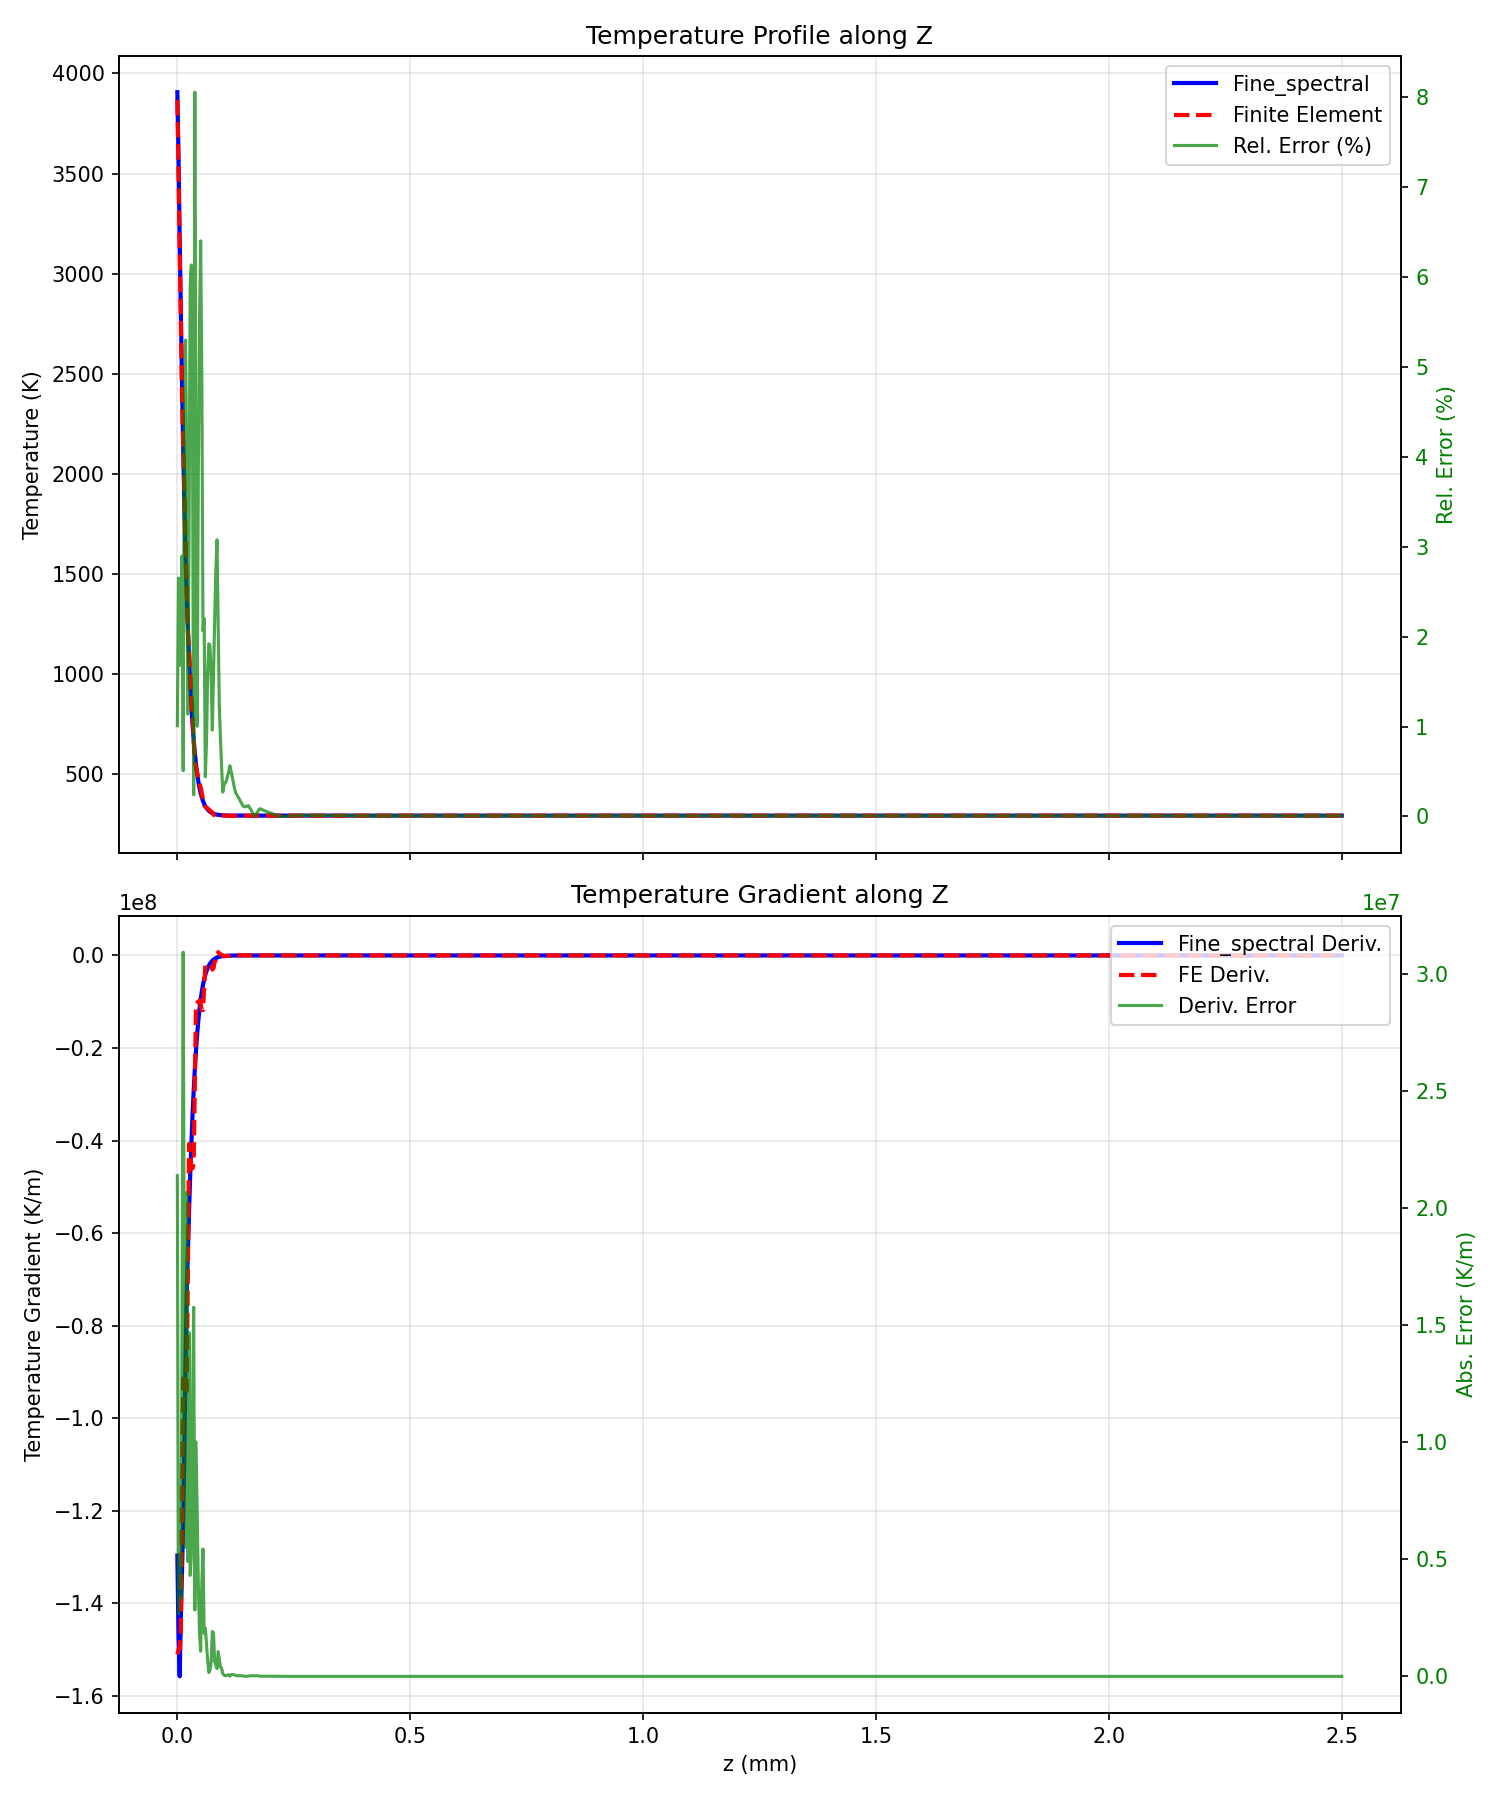
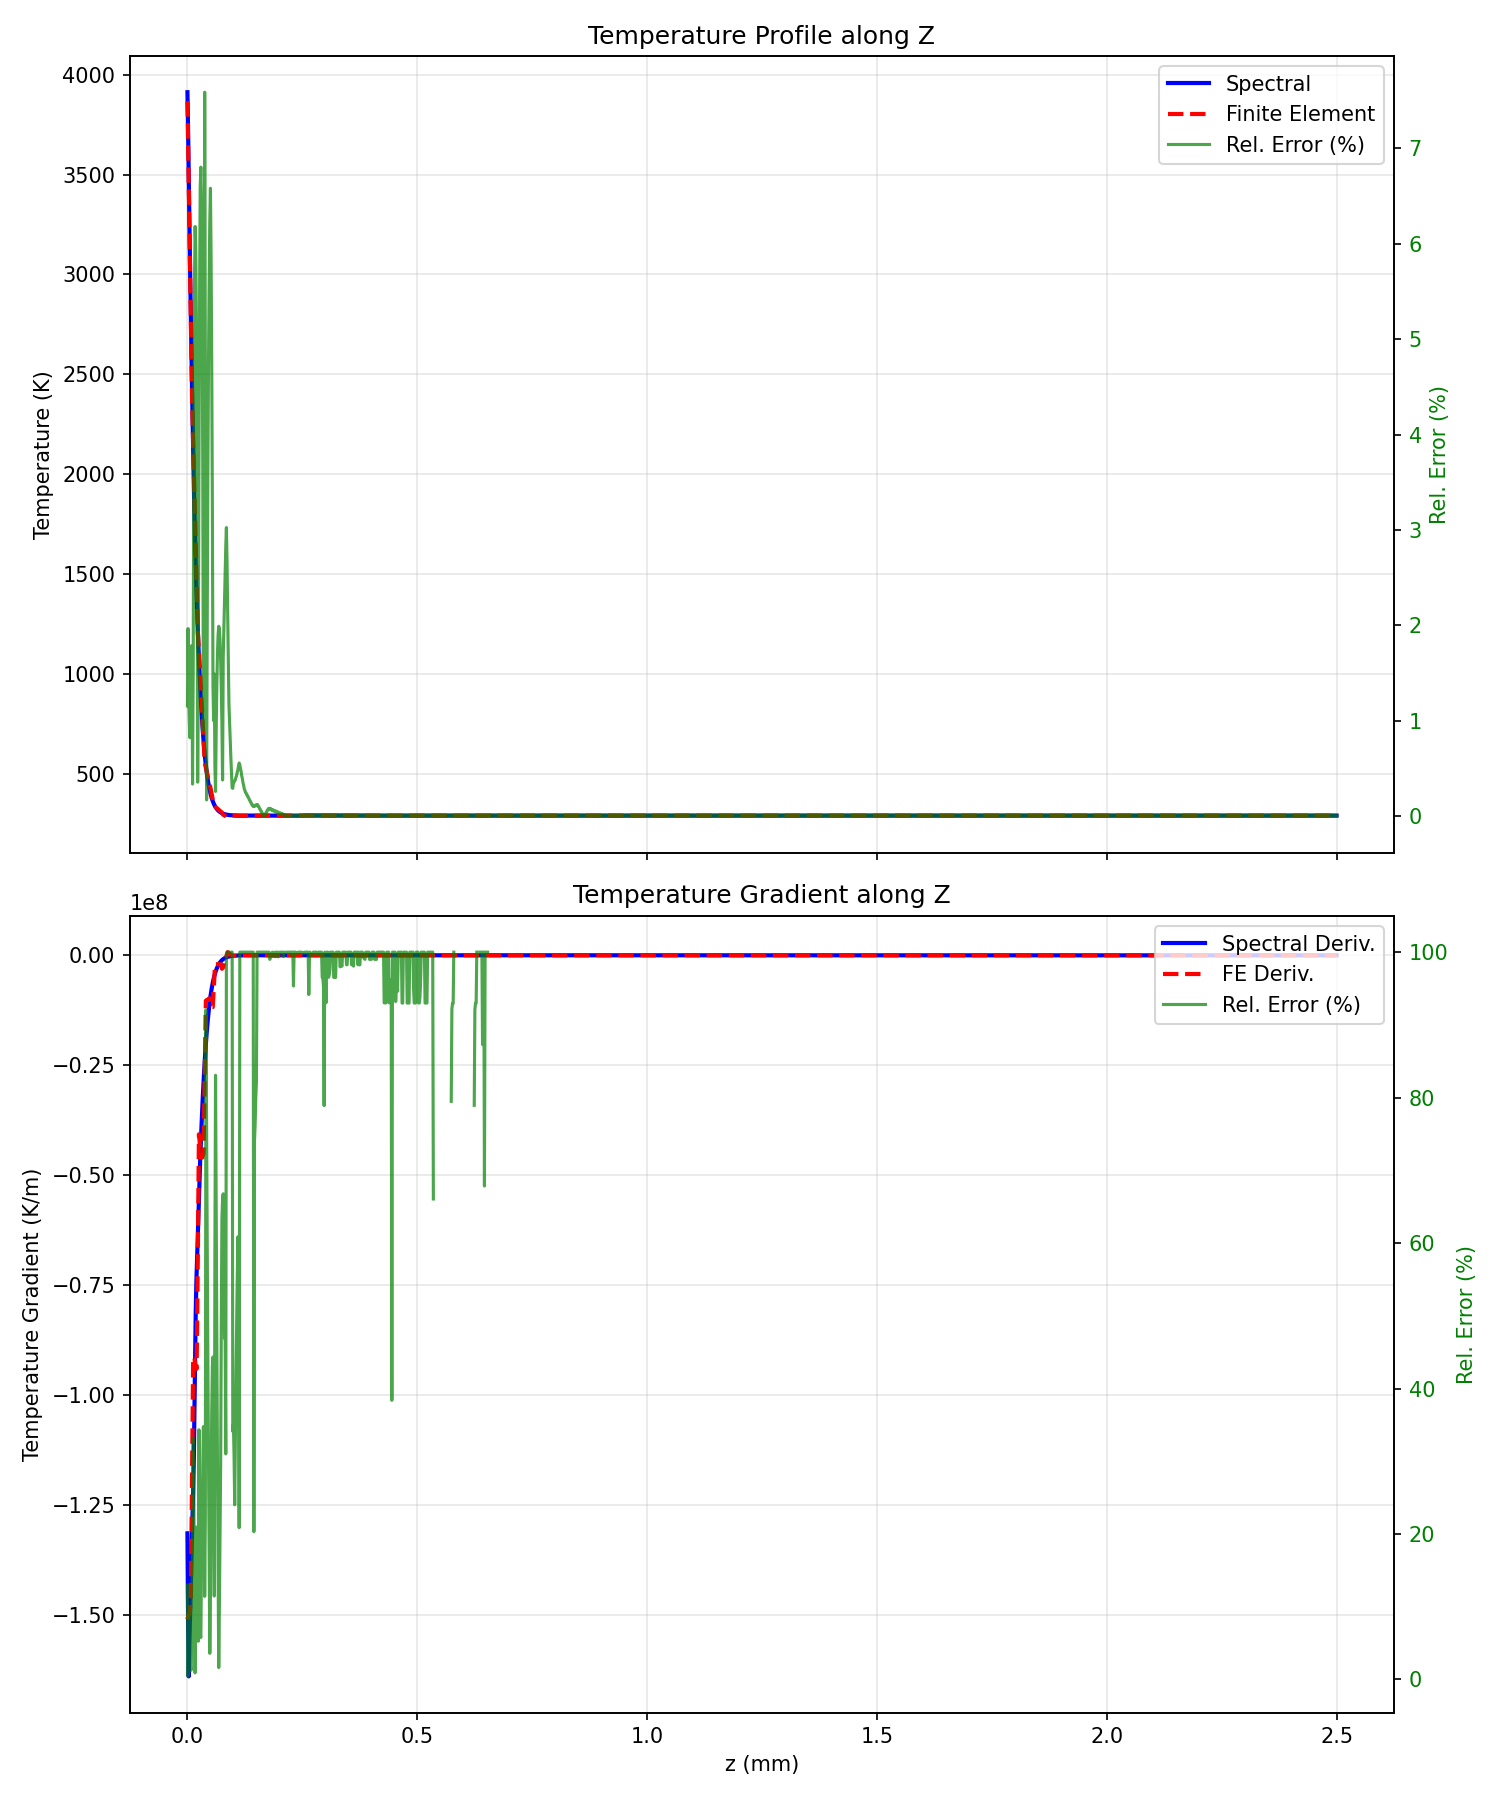
Meltpool Visu

diff --git a/visualisation.py b/visualisation.py
@@ -1,0 +1,367 @@
+import argparse
+import xml.etree.ElementTree as ET
+import h5py
+import numpy as np
+import matplotlib.pyplot as plt
+from scipy.interpolate import RegularGridInterpolator, griddata
+import os
+import sys
+
+# ==========================================
+# 1. PARSING & DATA LOADING
+# ==========================================
+
+def parse_xdmf_path(xdmf_path, relative_path_string):
+    """
+    Resolves the h5 file path relative to the xdmf location.
+    Expected string format in XDMF: "filename.h5:/dataset/path"
+    """
+    h5_file, h5_path = relative_path_string.split(":")
+    # Assume h5 file is in same directory as xdmf
+    base_dir = os.path.dirname(xdmf_path)
+    full_h5_path = os.path.join(base_dir, h5_file)
+    return full_h5_path, h5_path
+
+def load_data(xdmf_path):
+    """
+    Parses XDMF to determine grid type (Structured vs Unstructured)
+    and loads the corresponding Temperature and Geometry data.
+    """
+    tree = ET.parse(xdmf_path)
+    root = tree.getroot()
+    
+    # Namespace handling usually not needed for basic XDMF, but safety check
+    # We look for the Domain
+    domain = root.find("Domain")
+    
+    # --- STRATEGY 1: Check for Temporal Collection (Unstructured/Validation format) ---
+    # We look for the LAST grid in a collection to get the "final time step"
+    grids = domain.findall(".//Grid")
+    
+    target_grid = None
+    grid_type = "Unknown"
+    
+    # Heuristic: Find the grid with the 'Temperature' attribute
+    # In temporal files, we want the last one.
+    valid_grids = []
+    for g in grids:
+        if g.find("Attribute") is not None:
+            valid_grids.append(g)
+            
+    if not valid_grids:
+        raise ValueError("Could not find any Grid with Attributes in XDMF.")
+    
+    # "I want only the final time step" -> Take the last valid grid
+    target_grid = valid_grids[-1]
+    
+    topology = target_grid.find("Topology")
+    geometry = target_grid.find("Geometry")
+    attribute = target_grid.find("Attribute")
+    
+    # Fallback: If Topology/Geometry not found in target grid (e.g. due to XInclude), 
+    # look for them in other grids (usually defined in the first Grid for the mesh)
+    if topology is None or geometry is None:
+        print("Topology/Geometry not found in target grid. Searching in Domain...")
+        for g in domain.findall(".//Grid"):
+            if topology is None and g.find("Topology") is not None:
+                topology = g.find("Topology")
+            if geometry is None and g.find("Geometry") is not None:
+                geometry = g.find("Geometry")
+            
+            if topology is not None and geometry is not None:
+                break
+    
+    if topology is None:
+         raise ValueError("Could not find Topology in XDMF.")
+    if geometry is None:
+         raise ValueError("Could not find Geometry in XDMF.")
+
+    topo_type = topology.get("TopologyType")
+    
+    data = {}
+    
+    # --- FORMAT 1: Structured (3DRectMesh) ---
+    if topo_type == "3DRectMesh":
+        print(f"Detected Format: Structured Grid ({topo_type})")
+        
+        # Geometry in VXVYVZ format expects 3 DataItems (X, Y, Z vectors)
+        geo_items = geometry.findall("DataItem")
+        
+        # Load X, Y, Z axes
+        axes = []
+        for item in geo_items:
+            h5_file, h5_path = parse_xdmf_path(xdmf_path, item.text.strip())
+            with h5py.File(h5_file, 'r') as f:
+                axes.append(f[h5_path][:])
+        
+        # Note: XDMF 3DRectMesh dims are typically K J I (Z Y X). 
+        # But VXVYVZ usually lists X, Y, Z. We assign based on length or standard order.
+        # Assuming standard Order: X (0), Y (1), Z (2)
+        data['x'] = axes[0]
+        data['y'] = axes[1]
+        data['z'] = axes[2]
+        data['type'] = 'structured'
+
+        # Load Temperature
+        # Dimensions in XDMF are often Z Y X, we might need to transpose
+        attr_item = attribute.find("DataItem")
+        h5_file, h5_path = parse_xdmf_path(xdmf_path, attr_item.text.strip())
+        with h5py.File(h5_file, 'r') as f:
+            T = f[h5_path][:]
+            # If shape matches (z, y, x), we are good. If (x,y,z), we leave it.
+            # Standard XDMF is Z, Y, X.
+            data['T'] = T
+
+    # --- FORMAT 2: Unstructured (Tetrahedron/XYZ) ---
+    else:
+        print(f"Detected Format: Unstructured Grid ({topo_type})")
+        
+        # Load XYZ Geometry (N x 3)
+        geo_item = geometry.find("DataItem")
+        h5_file, h5_path = parse_xdmf_path(xdmf_path, geo_item.text.strip())
+        with h5py.File(h5_file, 'r') as f:
+            xyz = f[h5_path][:]
+        
+        data['xyz'] = xyz
+        data['type'] = 'unstructured'
+        
+        # Load Temperature
+        attr_item = attribute.find("DataItem")
+        h5_file, h5_path = parse_xdmf_path(xdmf_path, attr_item.text.strip())
+        with h5py.File(h5_file, 'r') as f:
+            data['T'] = f[h5_path][:].flatten() # Ensure 1D array
+
+    return data
+
+# ==========================================
+# 2. INTERPOLATION ENGINE
+# ==========================================
+
+def get_slice(data, normal, center, width, height, reverse_axes=(), resolution=500):
+    """
+    Interpolates 3D data onto a 2D plane defined by a center point and dimensions.
+    normal: 'x', 'y', or 'z' axis normal to the plane
+    center: (x, y, z) tuple associated with the center of the slice
+    width: dimension of the slice along the horizontal axis of the plot
+    height: dimension of the slice along the vertical axis of the plot
+    reverse_axes: list of axes ('x', 'y', 'z') to invert sign for data querying
+    """
+    print(f"Interpolating slice Normal={normal} at Center={center}, W={width}, H={height}...")
+    
+    cx, cy, cz = center
+
+    # 1. Define the 2D grid for the slice in User Coordinates
+    if normal == 'z':
+        # Plane is X-Y. Z is constant.
+        # Width -> X, Height -> Y
+        u = np.linspace(cx - width/2, cx + width/2, resolution)
+        v = np.linspace(cy - height/2, cy + height/2, resolution)
+        U, V = np.meshgrid(u, v)
+        W = np.full_like(U, cz)
+        
+        # User coords: X, Y, Z
+        user_points_xyz = np.stack((U.ravel(), V.ravel(), W.ravel()), axis=-1)
+        xlabel, ylabel = 'X (m)', 'Y (m)'
+        h_axis, v_axis = 'x', 'y'
+
+    elif normal == 'y':
+        # Plane is X-Z. Y is constant.
+        # Width -> X, Height -> Z
+        u = np.linspace(cx - width/2, cx + width/2, resolution)
+        v = np.linspace(cz - height/2, cz + height/2, resolution)
+        U, V = np.meshgrid(u, v) # U is X, V is Z
+        W = np.full_like(U, cy)
+        
+        # User coords: X, Y, Z
+        user_points_xyz = np.stack((U.ravel(), W.ravel(), V.ravel()), axis=-1)
+        xlabel, ylabel = 'Scanning direction (m)', 'Build direction (m)'
+        h_axis, v_axis = 'x', 'z'
+
+    elif normal == 'x':
+        # Plane is Y-Z. X is constant.
+        # Width -> Y, Height -> Z
+        u = np.linspace(cy - width/2, cy + width/2, resolution)
+        v = np.linspace(cz - height/2, cz + height/2, resolution)
+        U, V = np.meshgrid(u, v) # U is Y, V is Z
+        W = np.full_like(U, cx)
+        
+        # User coords: X, Y, Z
+        user_points_xyz = np.stack((W.ravel(), U.ravel(), V.ravel()), axis=-1)
+        xlabel, ylabel = 'Transverse direction (m)', 'Build direction (m)'
+        h_axis, v_axis = 'y', 'z'
+    
+    else:
+        raise ValueError("Normal must be x, y, or z")
+
+    # 2. Perform Interpolation
+    query_points = user_points_xyz 
+    if data['type'] == 'structured':
+        # Prepare Interpolator if data is structured
+        # RGI expects (z, y, x) axes if T is (z,y,x)
+        # Note: We create the RGI on the fly. 
+        # Check alignment: Standard XDMF/HDF ordering is Z, Y, X for the 3D array data['T']
+        
+        # RGI expects query points in (z, y, x) order
+        rgi_query = np.column_stack((query_points[:,2], query_points[:,1], query_points[:,0]))
+        
+        rgi = RegularGridInterpolator((data['z'], data['y'], data['x']), data['T'], 
+                                      bounds_error=False, fill_value=np.nan)
+        slice_vals = rgi(rgi_query)
+
+    else: # Unstructured
+        points = data['xyz'] # (N, 3)
+        values = data['T']   # (N,)
+        
+        # griddata expects (N, D) points and (M, D) xi.
+        # Our interpolation points are (M, 3) in X,Y,Z order.
+        slice_vals = griddata(points, values, query_points, method='linear')
+
+    slice_data = slice_vals.reshape(U.shape)
+    
+    # 3. Handle Reversals (Mirroring the plot)
+    if h_axis in reverse_axes:
+        # Flip horizontal axis (columns)
+        slice_data = np.fliplr(slice_data)
+        print(f"Reversing horizontal axis ({h_axis})")
+        
+    if v_axis in reverse_axes:
+        # Flip vertical axis (rows)
+        slice_data = np.flipud(slice_data)
+        print(f"Reversing vertical axis ({v_axis})")
+    
+    return U, V, slice_data, xlabel, ylabel
+
+# ==========================================
+# 3. PLOTTING
+# ==========================================
+
+def plot_meltpool(U, V, T_grid, xlabel, ylabel, liquidus, solidus, title, output_file):
+    
+    # Convert to micrometers
+    U = U * 1e6
+    V = V * 1e6
+    xlabel = xlabel.replace('(m)', '(µm)')
+    ylabel = ylabel.replace('(m)', '(µm)')
+    
+    fig, ax = plt.subplots(figsize=(10, 6))
+    
+    # 1. Filled Contours (Temperature Map)
+    # Clip data to avoid holes with extend='neither'
+    T_plot = np.clip(T_grid, 500, 2500)
+    
+    # Plot: Banded colormap (11 discrete colors)
+    cmap_plot = plt.get_cmap('jet', 11)
+    levels_plot = np.linspace(500, 2500, 12) 
+    
+    contour_filled = ax.contourf(U, V, T_plot, levels=levels_plot, cmap=cmap_plot, extend='neither')
+    
+    # Colorbar: Continuous colormap
+    cmap_bar = plt.get_cmap('jet')
+    norm_bar = plt.Normalize(vmin=500, vmax=2500)
+    # Create a separate mappable for the colorbar
+    sm = plt.cm.ScalarMappable(cmap=cmap_bar, norm=norm_bar)
+    sm.set_array([]) 
+    
+    # Colorbar placement: top left, outside the plot area
+    # [x, y, width, height] in axes coordinates. y > 1 puts it above.
+    cax = ax.inset_axes([0.0, 1.05, 0.40, 0.05])
+    cbar = plt.colorbar(sm, cax=cax, orientation='horizontal', 
+                        ticks=[500, 1000, 1500, 2000, 2500])
+    
+    # Style colorbar (default black text for white background)
+    cbar.set_label('Temperature (K)', fontsize=9)
+    cbar.ax.xaxis.set_tick_params(labelsize=8)
+    cbar.ax.xaxis.set_ticks_position('top')
+    cbar.ax.xaxis.set_label_position('top')
+    
+    # 2. Isotherms (Liquidus and Solidus)
+    # Solid lines for current melt pool
+    iso_levels = [solidus, liquidus]
+    colors = ['red', 'red'] # Both red as per your example, or distinct if preferred
+    
+    contours = ax.contour(U, V, T_grid, levels=iso_levels, colors=colors, linewidths=2)
+    
+    # Label the lines (optional, but good for debugging)
+    # ax.clabel(contours, inline=True, fontsize=10, fmt='%1.0f K')
+
+    # 3. Gradient Vectors (Optional Plus)
+    # Calculate gradient
+    try:
+        # Compute gradient with respect to physical coordinates (in µm)
+        # np.gradient expects coordinates for axis 0 (V) then axis 1 (U)
+        # We need to construct 1D coordinate arrays for np.gradient
+        # U is meshgrid, so U[0, :] gives x-coords
+        # V is meshgrid, so V[:, 0] gives y-coords
+        dT_dV, dT_dU = np.gradient(T_grid, V[:, 0], U[0, :])
+        
+        # Downsample for vector plotting so it isn't too crowded
+        skip = (slice(None, None, 30), slice(None, None, 15)) # Adjust as needed 
+        
+        # Calculate magnitude for arrow scaling and normalization
+        mag = np.sqrt(dT_dU**2 + dT_dV**2)
+        max_mag = np.max(mag) if np.max(mag) > 0 else 1.0
+        
+        # Normalize vectors against the global maximum gradient magnitude
+        # We plot negative gradient (heat flow direction)
+        dU_norm = dT_dU / (max_mag *500)
+        dV_norm = dT_dV / (max_mag *500)
+        
+        ax.quiver(U[skip], V[skip], dU_norm[skip], dV_norm[skip], 
+                  color='black', alpha=0.5, scale=20, width=0.002)
+    except Exception as e:
+        print(f"Could not plot gradients: {e}")
+
+    # 4. Styling
+    ax.set_aspect('equal')
+    ax.set_xlabel(xlabel)
+    ax.set_ylabel(ylabel)
+    ax.set_title(title)
+    
+    plt.tight_layout()
+    
+    if output_file:
+        plt.savefig(output_file, dpi=300)
+        print(f"Plot saved to {output_file}")
+    else:
+        plt.show()
+
+# ==========================================
+# 4. MAIN EXECUTION
+# ==========================================
+
+if __name__ == "__main__":
+    parser = argparse.ArgumentParser(description="Plot Meltpool X-Sections from XDMF.")
+    parser.add_argument("xdmf_file", help="Path to input .xmf or .xdmf file")
+    parser.add_argument("--normal", default="y", choices=['x', 'y', 'z'], help="Normal of the cut plane")
+    
+    parser.add_argument("--center", nargs=3, type=float, default=[0.0, 0.0, 0.0], help="Center point of the cut plane (x y z)")
+    parser.add_argument("--width", type=float, default=2e-3, help="Width of the cut view")
+    parser.add_argument("--height", type=float, default=1e-3, help="Height of the cut view")
+    parser.add_argument("--reverse", nargs='*', default=[], choices=['x', 'y', 'z'], help="Axes to reverse for querying data (e.g. --reverse x)")
+    
+    parser.add_argument("--liquidus", type=float, default=1800, help="Liquidus temperature (K)")
+    parser.add_argument("--solidus", type=float, default=1700, help="Solidus temperature (K)")
+    parser.add_argument("--out", default=None, help="Output image filename")
+    
+    args = parser.parse_args()
+
+    # 1. Load
+    try:
+        data = load_data(args.xdmf_file)
+    except Exception as e:
+        print(f"Error loading XDMF: {e}")
+        sys.exit(1)
+
+    # 2. Interpolate Slice
+    try:
+        # Convert args.reverse to list if it's not already (argparse nargs='*' creates a list)
+        reverse_axes = args.reverse if isinstance(args.reverse, list) else []
+        
+        U, V, T_grid, xlabel, ylabel = get_slice(data, args.normal, args.center, args.width, args.height, reverse_axes=reverse_axes)
+    except Exception as e:
+        print(f"Error extracting slice: {e}")
+        sys.exit(1)
+
+    # 3. Plot
+    plot_meltpool(U, V, T_grid, xlabel, ylabel, args.liquidus, args.solidus, 
+                  f"Section Normal-{args.normal.upper()} @ {args.center}, Reversed: {args.reverse}", args.out)

diff --git a/comparison.py b/comparison.py
@@ -108,6 +108,7 @@ def plot_comparison(profiles, output_file="temperature_comparison.png", label_si
             safe_mask = denom > 1e-6
             error_T = np.zeros_like(T_FE_interp)
             error_T[safe_mask] = np.abs(T_spec[safe_mask] - T_FE_interp[safe_mask]) / denom[safe_mask] * 100.0
+            error_T[error_T > 100.0] = 100.0  # Cap error at 100%
             error_T[~safe_mask] = np.nan # Or 0, but NaN is safer for plotting
 
             ax1_err = ax1.twinx()
@@ -141,11 +142,18 @@ def plot_comparison(profiles, output_file="temperature_comparison.png", label_si
         if len(coords_spec) > 1 and len(coords_FE) > 1:
             # Interpolate FE derivative to spectral grid
             dT_FE_interp = np.interp(coords_spec, coords_FE_sorted, dT_FE, left=np.nan, right=np.nan)
-            error_dT = np.abs(dT_spec - dT_FE_interp)
+            
+            # Compute Relative Error for derivatives
+            denom_dT = np.abs(dT_FE_interp)
+            safe_mask_dT = denom_dT > 1e-6
+            error_dT = np.zeros_like(dT_FE_interp)
+            error_dT[safe_mask_dT] = np.abs(dT_spec[safe_mask_dT] - dT_FE_interp[safe_mask_dT]) / denom_dT[safe_mask_dT] * 100.0
+            error_dT[error_dT > 100.0] = 100.0  # Cap error at 100%
+            error_dT[~safe_mask_dT] = np.nan
             
             ax2_err = ax2.twinx()
-            ax2_err.plot(coords_spec * 1e3, error_dT, 'g-', label='Deriv. Error', linewidth=1.5, alpha=0.7)
-            ax2_err.set_ylabel('Abs. Error (K/m)', color='g')
+            ax2_err.plot(coords_spec * 1e3, error_dT, 'g-', label='Rel. Error (%)', linewidth=1.5, alpha=0.7)
+            ax2_err.set_ylabel('Rel. Error (%)', color='g')
             ax2_err.tick_params(axis='y', labelcolor='g')
             
             # Combine legends
